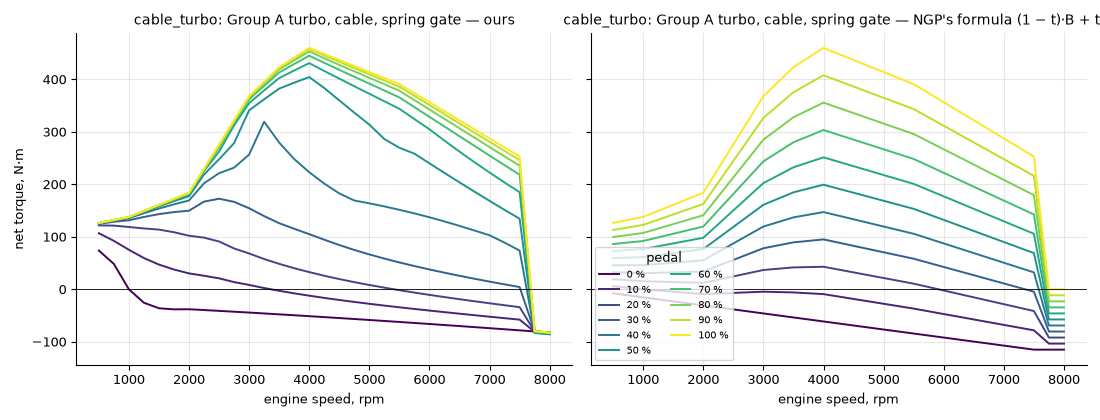
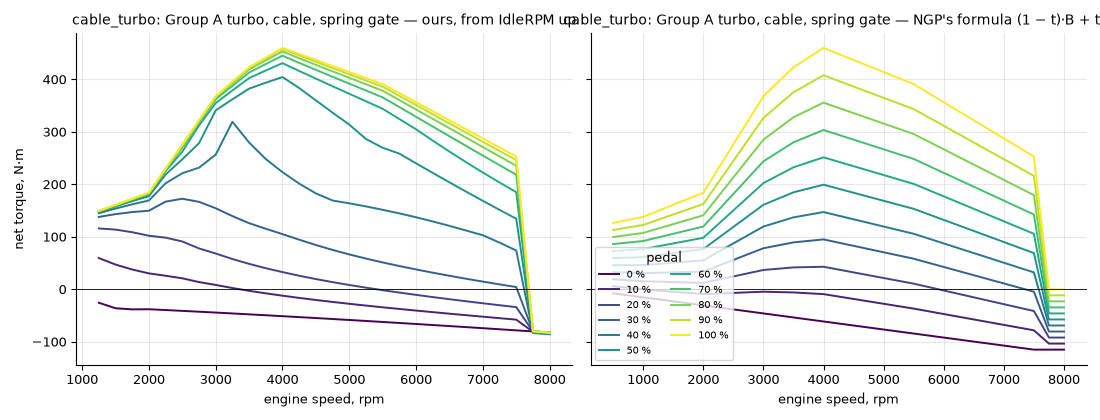
rbr-engine: electronic gate aims by throttle, derivative on boost; figures from IdleRPM

diff --git a/crates/rbr-engine/src/engine.rs b/crates/rbr-engine/src/engine.rs
@@ -327,6 +327,7 @@ pub fn step(spec: &Spec, s: &mut State, x: &Step) -> Out {
     };
     let area = gas::plate_area(s.plate) + other;
 
+    let boost_before = s.p_boost;
     // Air path: boost pipe then manifold, sub-stepped when the manifold is fast.
     let eta_v = spec.eta_v.at(rpm);
     let tau = spec.v_im * 120.0 / (eta_v * spec.geometry.v_d * rpm.max(300.0));
@@ -385,19 +386,35 @@ pub fn step(spec: &Spec, s: &mut State, x: &Step) -> Out {
         };
         let t_ss = (t.t_em0 + t.t_em_k * w_exhaust + unburnt).min(turbo::T_EM_MAX);
         s.t_em += (t_ss - s.t_em) * (1.0 - exp(-dt / turbo::TAU_EXHAUST));
-        // Both gates aim at the WOT boost whatever the pedal (inferred: rally ECUs map pedal to position).
-        let aim = if anti_lag { x.p_a + ecu::ALS_BOOST } else { t.pi_wot.at(rpm) * x.p_a };
+        // The electronic gate's aim rises linearly with the throttle's aim position to the WOT boost, as race ECUs'
+        // boost aim tables over rpm and throttle (shape inferred; the aim, not the plate, so a re-apply after anti-lag
+        // does not dump the boost while the plate opens); a spring gate aims at the WOT boost whatever the pedal.
+        let wot = t.pi_wot.at(rpm) * x.p_a;
+        let aim = if anti_lag {
+            x.p_a + ecu::ALS_BOOST
+        } else if spec.class.actuation == Actuation::Dbw {
+            x.p_a + (wot - x.p_a) * target
+        } else {
+            wot
+        };
         let e = (s.p_boost - aim) / turbo::WASTEGATE_BAND;
         let command = if spec.class.actuation == Actuation::Dbw || anti_lag {
             // The electronic gate's base opening at this speed (the steady WOT one) plus PI, as boost controllers
             // run a base duty table with closed-loop trim; the base pre-opens the gate as the boost comes up.
             let base = if anti_lag { 0.0 } else { t.gate_base.at(rpm) };
             // Conditional integration: the integral holds while the command is saturated the way it would grow.
-            let raw = base + e + s.wastegate_i;
+            // A derivative on the boost (not the error, so no kick from the aim) opens the gate as the boost
+            // rises fast, before it overshoots.
+            let d = if dt > 0.0 {
+                turbo::WASTEGATE_TD * (s.p_boost - boost_before) / (dt * turbo::WASTEGATE_BAND)
+            } else {
+                0.0
+            };
+            let raw = base + e + d + s.wastegate_i;
             if !((raw <= 0.0 && e < 0.0) || (raw >= 1.0 && e > 0.0)) {
                 s.wastegate_i = (s.wastegate_i + e * dt / turbo::WASTEGATE_TI).clamp(-1.0, 1.0);
             }
-            (base + e + s.wastegate_i).clamp(0.0, 1.0)
+            (base + e + d + s.wastegate_i).clamp(0.0, 1.0)
         } else {
             ((s.p_boost - aim) / turbo::SPRING_BAND).clamp(0.0, 1.0)
         };

diff --git a/crates/rbr-engine/tests/model.rs b/crates/rbr-engine/tests/model.rs
@@ -135,6 +135,51 @@ fn part_throttle_never_beats_wot_and_a_closed_pedal_holds_idle() {
     }
 }
 
+fn dbw_turbos() -> impl Iterator<Item = &'static (&'static str, Params, Realistic)> {
+    models()
+        .iter()
+        .filter(|(_, p, m)| p.turbo && m.calibration().class.unwrap().actuation == rbr_engine::class::Actuation::Dbw)
+}
+
+/// The electronic gate's aim follows the plate, so a part pedal has one steady state whichever way it is approached.
+#[test]
+fn a_dbw_turbo_part_pedal_is_the_same_from_closed_and_from_wot() {
+    for (name, p, m) in dbw_turbos() {
+        let spec = m.spec();
+        let mut n = (rpm(p.idle_speed) / 250.0).ceil() * 250.0;
+        while n <= rpm(p.rev_limit) {
+            for k in 0..=10 {
+                let pedal = f64::from(k) / 10.0;
+                let up = calibrate::part(spec, n, pedal).1.torque;
+                let down = calibrate::steady(spec, &mut calibrate::wot(spec, n).0, n, pedal).torque;
+                let band = 0.02 * up.abs().max(down.abs()) + 1.0;
+                assert!(
+                    (up - down).abs() <= band,
+                    "{name} {n:.0} rpm pedal {pedal}: {up:.1} from closed, {down:.1} from WOT"
+                );
+            }
+            n += 250.0;
+        }
+    }
+}
+
+/// A tuned electronic gate: a WOT tip-in at a fixed speed overshoots its steady torque by at most 5 % and stays within
+/// 2 % of it from 1 s on (inferred, tuning practice).
+#[test]
+fn a_dbw_turbo_tip_in_barely_overshoots() {
+    for (name, _, m) in dbw_turbos() {
+        for n in [3000.0, 5000.0] {
+            let mut m = m.clone();
+            let rows = bench::run(&mut m, n, None, 5.0, |t| if t >= 1.0 { 1.0 } else { 0.0 }, None);
+            let last = rows.last().unwrap().torque;
+            let peak = rows.iter().map(|r| r.torque).fold(f64::MIN, f64::max);
+            assert!(peak <= 1.05 * last, "{name} {n:.0} rpm: peak {peak:.1} over steady {last:.1}");
+            let off = rows.iter().filter(|r| r.time >= 2.0).map(|r| (r.torque - last).abs()).fold(0.0, f64::max);
+            assert!(off <= 0.02 * last, "{name} {n:.0} rpm: {off:.1} off steady {last:.1} after 1 s");
+        }
+    }
+}
+
 /// Seconds at a fixed `n` rpm from the steady pedal that gives 5 bar BMEP until 90 % of the steady WOT torque.
 fn spool_at(m: &Realistic, n: f64) -> f64 {
     use rbr_engine::engine::{step, Step};

diff --git a/crates/rbr-engine/src/turbo.rs b/crates/rbr-engine/src/turbo.rs
@@ -37,11 +37,14 @@ const T_EM_IDLE: f64 = 973.15;
 const T_EM_RATED: f64 = 1223.15;
 pub const T_EM_MAX: f64 = 1423.15;
 /// The wastegate: its actuator, s (Gorzelic 2012, 125 ms); the electronic gate's proportional band, Pa (fully open
-/// 1 bar over the aim, around its base opening), and integral time, s; the spring gate's band (fully open 0.5 bar over
-/// its aim). Band and time guessed: the narrowest the samples hold without a limit cycle through the turbo.
+/// 1 bar over the aim, around its base opening), integral time and derivative time on the boost, s; the spring gate's
+/// band (fully open 0.5 bar over its aim). Band and times guessed: the narrowest band the samples hold without a limit
+/// cycle through the turbo, and the derivative time that keeps a tip-in within 5 % overshoot, settled in 1 s (tuning
+/// practice; 0.05–0.12 s all do at 3000 and 5000 rpm, 0.08 the least overshoot).
 pub const TAU_WASTEGATE: f64 = 0.125;
 pub const WASTEGATE_BAND: f64 = 1.0e5;
 pub const WASTEGATE_TI: f64 = 0.5;
+pub const WASTEGATE_TD: f64 = 0.08;
 pub const SPRING_BAND: f64 = 0.5e5;
 /// The blow-off valve opens over 0.3–0.4 bar across the throttle and empties the boost pipe in about 0.1 s (inferred).
 pub const BOV_OPEN: f64 = 0.3e5;

diff --git a/crates/rbr-engine/examples/plot.py b/crates/rbr-engine/examples/plot.py
@@ -152,9 +152,11 @@ def figures(d, out):
         fig, axes = plt.subplots(1, 2, figsize=(11, 4.2), sharey=True)
         pedals = sorted({r["pedal"] for r in st})
         cmap = plt.get_cmap("viridis")
-        for col, (ax, key, title) in enumerate(zip(axes, ("torque", "ngp"), ("ours", "NGP's formula (1 − t)·B + t·V"))):
+        # Ours from IdleRPM up: below it the bench holds the idle air wide open, which is the ECU, not the engine.
+        titles = ("ours, from IdleRPM up", "NGP's formula (1 − t)·B + t·V")
+        for col, (ax, key, title) in enumerate(zip(axes, ("torque", "ngp"), titles)):
             for q in pedals:
-                rows = [r for r in st if r["pedal"] == q]
+                rows = [r for r in st if r["pedal"] == q and (key == "ngp" or r["rpm"] >= p["idle"])]
                 ax.plot([r["rpm"] for r in rows], [r[key] for r in rows], color=cmap(q), lw=1.4,
                         label=f"{q * 100:.0f} %")
             ax.axhline(0, color="k", lw=0.6)
